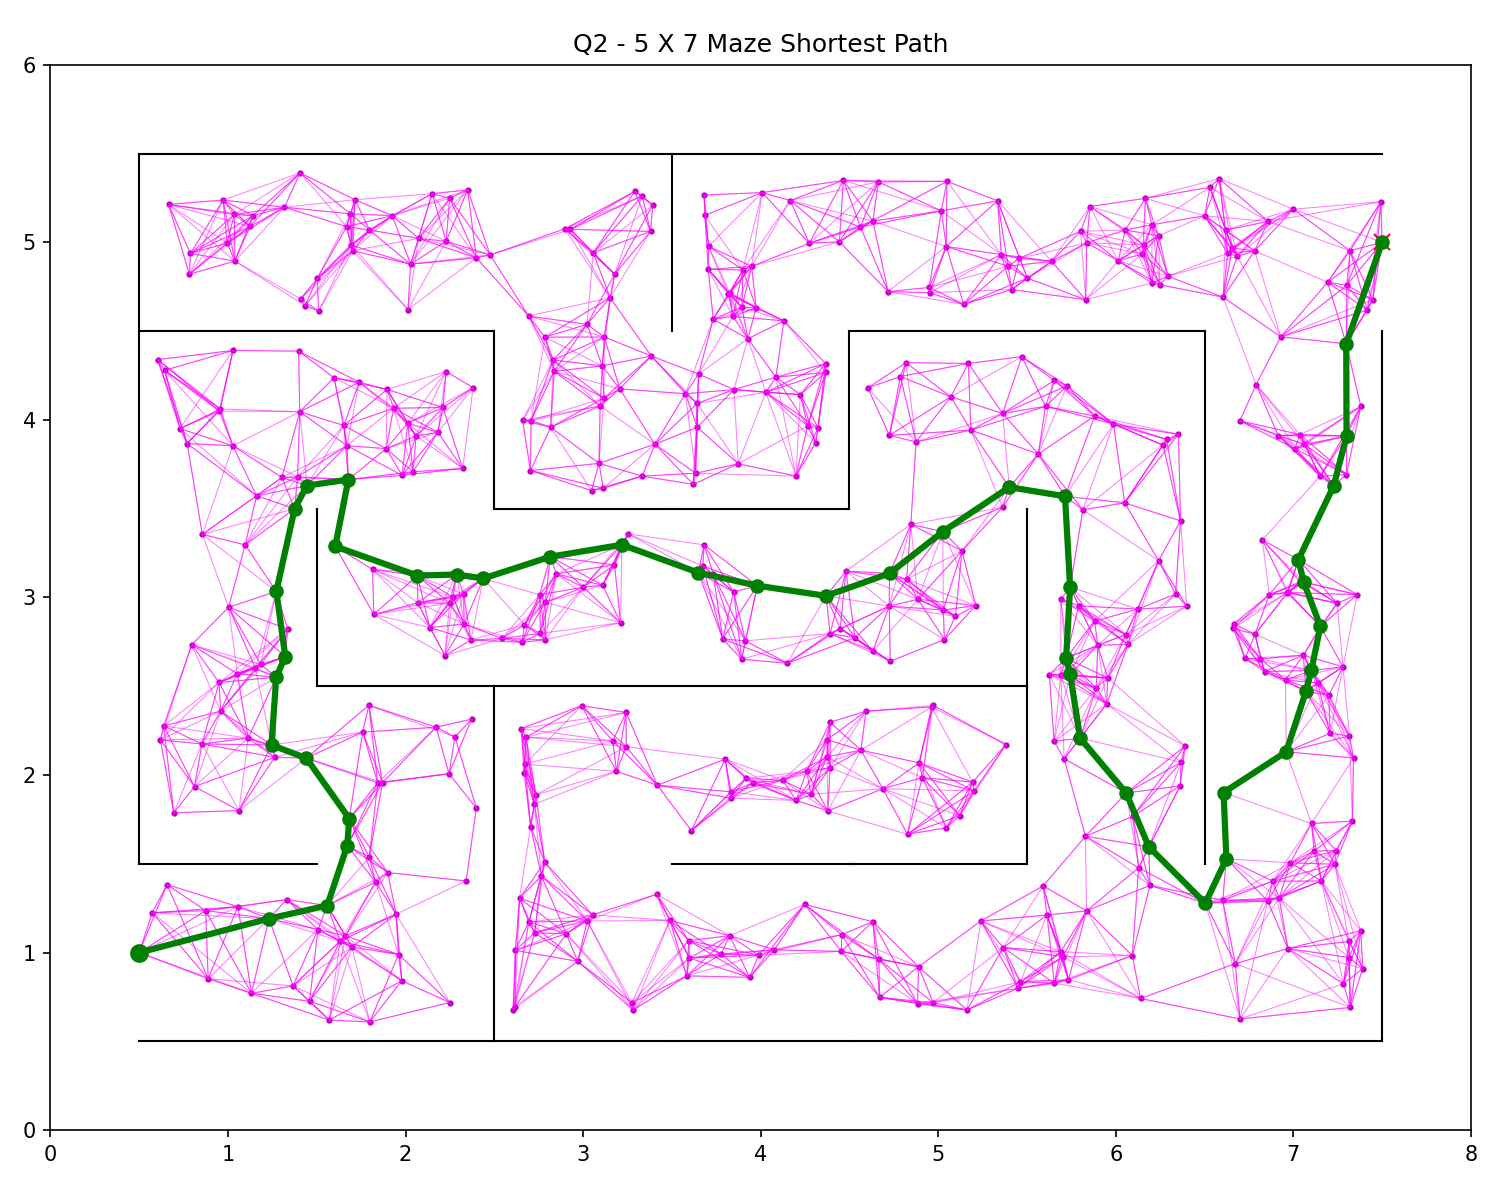
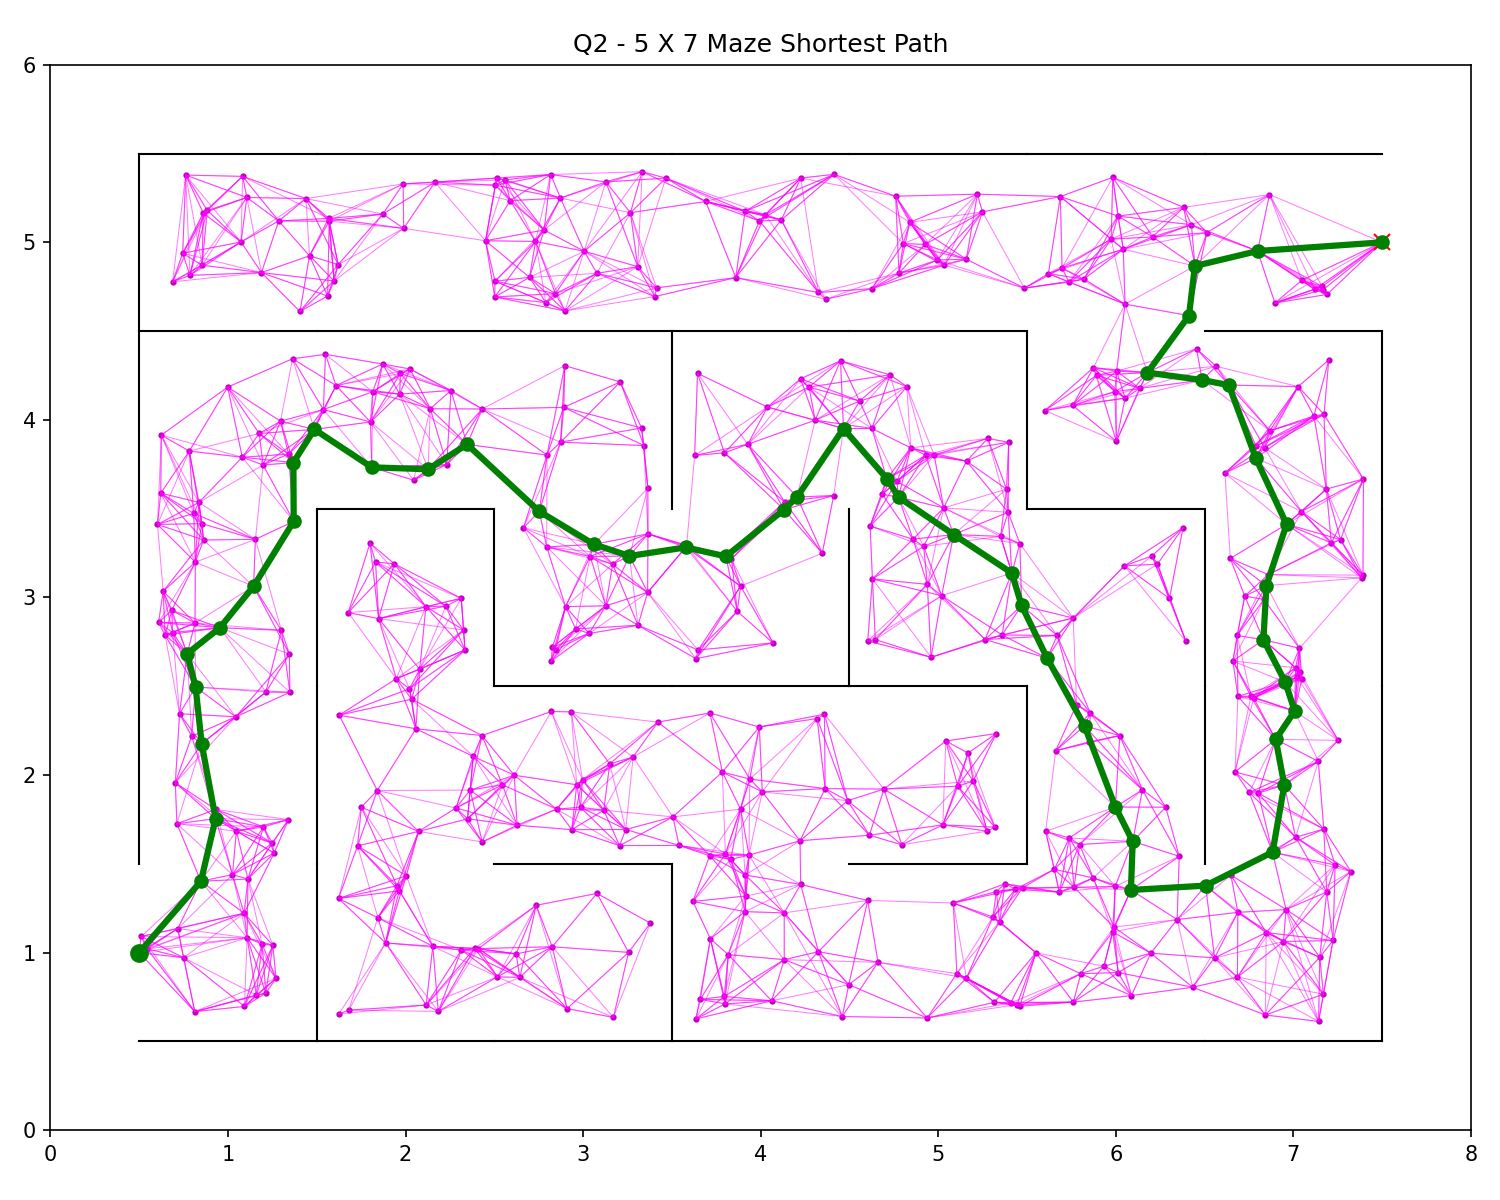
Completed A1

Changed region(s): [[0.092, 0.1233, 0.92, 0.8633]]

diff --git a/A1/ROB521_assignment1-1.py b/A1/ROB521_assignment1-1.py
@@ -389,8 +389,8 @@ plt.show()
 # seconds on your computer? (Anything larger than 40x40 will suffice for 
 # full marks)
 
-row = 40
-col = 40
+row = 41
+col = 41
 walls = maze(row, col)
 start = np.array([0.5, 1.0])
 finish = np.array([col + 0.5, row])
@@ -409,55 +409,8 @@ t0 = time()
 
 # ------insert your optimized algorithm here------
 
-# THE FOLLOWING ALGORITHM IS WHAT I TRIED TO DO TO OPTIMIZE THE PRM FROM QUESTION 1 BUT IT IS COMMENTED OUT BECAUSE IT DID NOT WORK AS INTENDED (TOO SLOW)
-
-# # The PRM algorithm from question 1 will not work very well here because of the size of the maze
-# # Since we have so many samples now, doing distance checks to every milestone, sorting distances, and collision checking all of the edges will be extremely slow
-# # In this algorithm, I will try to only allow for connections to milestones that are within a certain radius
-
-# # Milestone generations with optimization
-# attempts = 0 # to keep track of how many attempts we made to sample valid points because we don't to be stuck sampling in case we don't get too many good points
-
-# while len(milestones) < nS and attempts < nS * 10:
-#     x_rand = np.random.uniform(0.5, col + 0.5)
-#     y_rand = np.random.uniform(0.5, row + 0.5)
-
-#     candidate = np.array([x_rand, y_rand])
-    
-#     # Only accept points that are collision-free
-#     if min_dist_to_edges(candidate, walls):
-#         milestones.append(candidate.tolist())
-#     attempts += 1
-    
-# milestones = np.array(milestones)
-
-# # Now to connect the edges together but only to those in a certain radius so we're not checking too many edges
-# N = len(milestones)
-
-# for i in range(N):
-#     p = milestones[i] # current point to connect from
-#     connections = 0 # to keep track of how many connections we've made from this point
-#     indices = np.random.permutation(N) # random order of all other points to try connecting to
-    
-#     for j in indices: # loop through all other points in random order
-#         if i == j:
-#             continue # skip the same point
-        
-#         q = milestones[j] # candidate point to connect to
-#         dist = np.linalg.norm(p - q) # Euclidean distance
-        
-#         if dist > connect_radius:
-#             continue # skip if it's outside the connection radius
-        
-#         # Check for collision and add edge if collision-free
-#         if check_collision(p[0], p[1], q[0], q[1], walls):
-#             edges.append([p[0], p[1], q[0], q[1]])
-#             connections += 1
-            
-#             if connections >= max_edges:
-#                 break # stop if we've reached the maximum number of edges from this point
-
-# INSTEAD, I READ ABOUT SOME GRID-BASED METHODS AND TRIED TO IMPLEMENT THIS INSTEAD
+# Random sampling in large mazes can lead to clustering of points in some areas and sparse coverage in others
+# This can lead to inefficient graphs that take longer to search and may not find paths even if they exist
 
 # So instead of randomly sampling the entire maze, we can divide the maze into a grid of cells and sample within each cell
 # Replaces random sampling with deterministic sampling
@@ -474,20 +427,157 @@ for x in x_pts:
 
 milestones = np.array(milestones)
 
-# Now to connect each milestone to its k-nearest neighbors (fixed number of connections)
-k = 4
+# # Now to connect each milestone to its k-nearest neighbors (fixed number of connections)
+# k = 6
+
+# for i in range(len(milestones)):
+#     p = milestones[i]
+
+#     dists = np.linalg.norm(milestones - p, axis=1)
+#     nearest = np.argsort(dists)[1:k+1]
+
+#     for j in nearest:
+#         q = milestones[j]
+#         if check_collision(p[0], p[1], q[0], q[1], walls):
+#             edges.append([p[0], p[1], q[0], q[1]])
+
+# Instead of k-nearest neighbors, we can connect each milestone to its 4 immediate grid neighbors (up, down, left, right)
+dx = 0.5
+milestone_set = set(map(tuple, milestones))  # O(1) lookup
+
+for x, y in milestones:
+
+    neighbors = [
+        (x + dx, y),
+        (x - dx, y),
+        (x, y + dx),
+        (x, y - dx)
+    ]
+
+    for nx, ny in neighbors:
+        if (nx, ny) in milestone_set:
+            edges.append([x, y, nx, ny])
+
+
+# Now, we find the shortest path using A* algorithm with lazy collision checking
+# So we will find the shortest path assuming all edges are valid, then check the edges in the found path for collisions
+# If any edge in the path is in collision, we remove it from the graph 
+
+# 0. Just a function that defines the heuristic for A* (Euclidean distance)
+def heuristic(i):
+    return np.linalg.norm(milestones[i] - milestones[goal_idx])
+
+#1. Building the adjacency list
+graph = {}
 
 for i in range(len(milestones)):
-    p = milestones[i]
+    graph[i] = [] # graph[node] = [(neighbor, cost), ...]
+    
+for e in edges:
+    x1, y1, x2, y2 = e
 
-    dists = np.linalg.norm(milestones - p, axis=1)
-    nearest = np.argsort(dists)[1:k+1]
+    # Find indices of the two endpoints
+    i = np.where((milestones == [x1, y1]).all(axis=1))[0][0]
+    j = np.where((milestones == [x2, y2]).all(axis=1))[0][0]
 
-    for j in nearest:
-        q = milestones[j]
-        edges.append([p[0], p[1], q[0], q[1]])
+    cost = np.sqrt((x1 - x2)**2 + (y1 - y2)**2)
 
+    graph[i].append((j, cost))
+    graph[j].append((i, cost))
+    
+# 2. Define the start and goal indices
+start_idx = np.where((milestones == start).all(axis=1))[0][0]
+goal_idx  = np.where((milestones == finish).all(axis=1))[0][0]
 
+# 3. Precomputing the heuristic for all nodes
+heuristic = {}
+
+for i in range(len(milestones)):
+    heuristic[i] = abs(milestones[i][0] - finish[0]) + abs(milestones[i][1] - finish[1])
+
+# 3.5 Lazy collision checking loop
+#while True:
+# 4. A* algorithm with lazy collision checking
+dist = {}        # g(n): cost-to-come
+parent = {}
+visited = set()
+
+for node in graph:
+    dist[node] = float('inf')
+    parent[node] = None
+
+dist[start_idx] = 0
+
+while True:
+
+    # Pick unvisited node with smallest f = g + h
+    min_f = float('inf')
+    current = None
+
+    for node in dist:
+        if node not in visited:
+            f = dist[node] + heuristic[node]
+            if f < min_f:
+                min_f = f
+                current = node
+
+    if current is None:
+        spath = None
+        break # no path found
+
+    if current == goal_idx:
+        break  # goal reached
+
+    visited.add(current)
+    
+    # Expanding neighbors
+    for neighbor, cost in graph[current]:
+
+        if neighbor in visited:
+            continue
+
+        p1 = milestones[current]
+        p2 = milestones[neighbor]
+
+        new_cost = dist[current] + cost
+
+        if new_cost < dist[neighbor]:
+            dist[neighbor] = new_cost
+            parent[neighbor] = current
+            
+# 5. Reconstruct path
+node = goal_idx
+spath = [] # list of milestone indices that form the shortest path
+
+while node is not None:
+    spath.append(node)
+    node = parent[node]
+
+spath.reverse()
+
+    # # Lazy collision checking on found path
+    # bad_edge = None
+
+    # for k in range(len(spath) - 1):
+    #     i = spath[k]
+    #     j = spath[k + 1]
+
+    #     p1 = milestones[i]
+    #     p2 = milestones[j]
+
+    #     if check_collision(p1[0], p1[1], p2[0], p2[1], walls):
+    #         bad_edge = (i, j)
+
+    # # If no collisions, we are done
+    # if bad_edge is None:
+    #     break
+
+    # # Otherwise remove ONE bad edge and replan
+    # i, j = bad_edge
+    # graph[i] = [(n, c) for (n, c) in graph[i] if n != j]
+    # graph[j] = [(n, c) for (n, c) in graph[j] if n != i]
+
+    
 # ------end of your optimized algorithm-------
 dt = time() - t0
 
@@ -496,9 +586,9 @@ if edges:
     edges = np.array(edges)
     ax.plot([edges[:, 0], edges[:, 2]], [edges[:, 1], edges[:, 3]], 'magenta', alpha=0.3, linewidth=0.3)
 
-# if len(spath) > 1:
-#     path_points = milestones[spath]
-#     ax.plot(path_points[:, 0], path_points[:, 1], 'go-', linewidth=2, markersize=4)
+if len(spath) > 1:
+    path_points = milestones[spath]
+    ax.plot(path_points[:, 0], path_points[:, 1], 'go-', linewidth=2, markersize=4)
 
 ax.set_title(f'Q3 - {row} X {col} Maze solved in {dt:.4f} seconds')
 plt.tight_layout()
